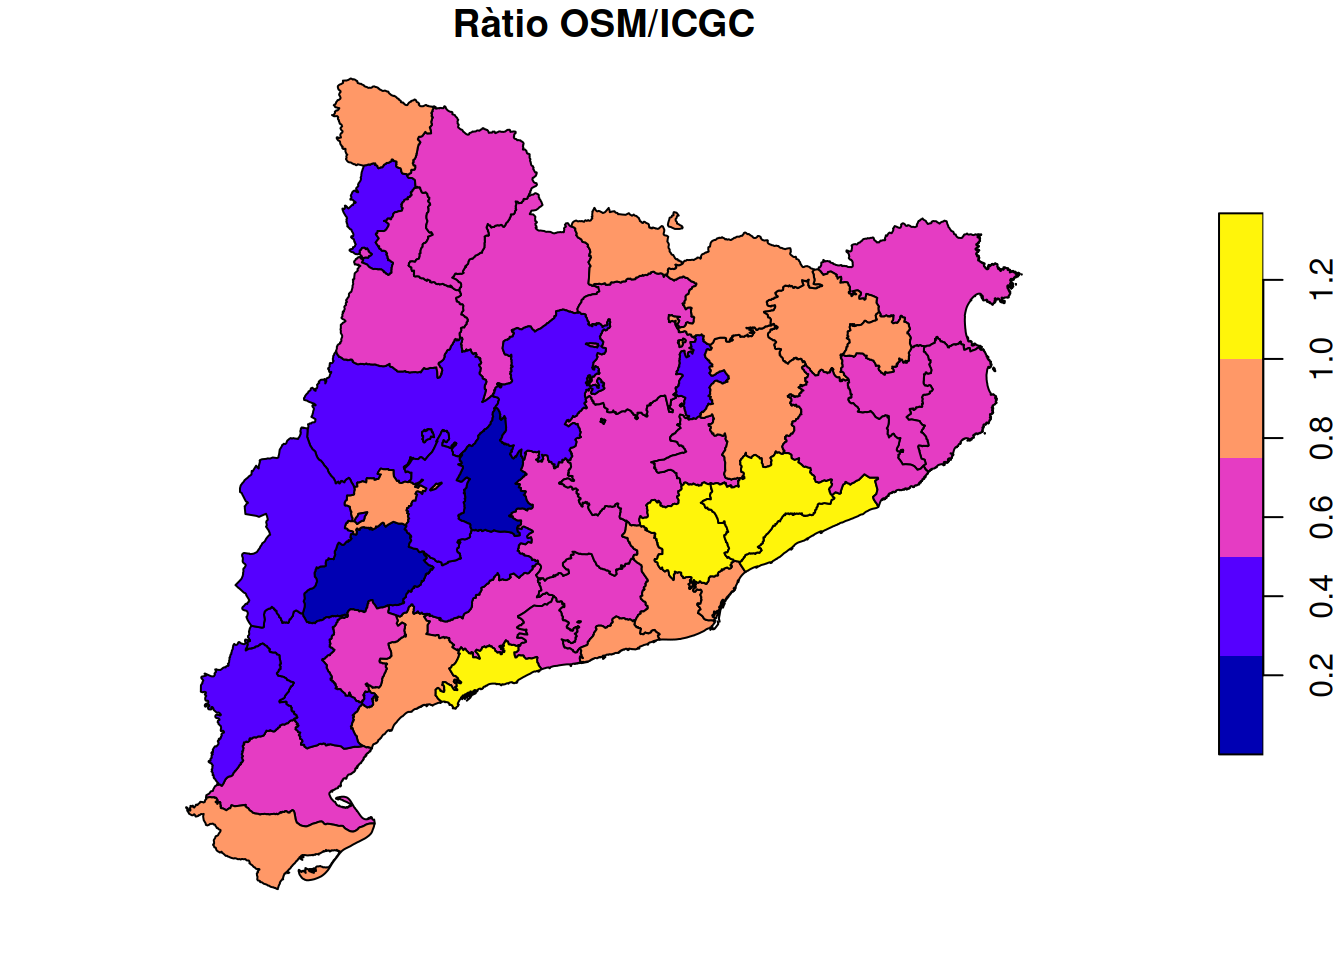
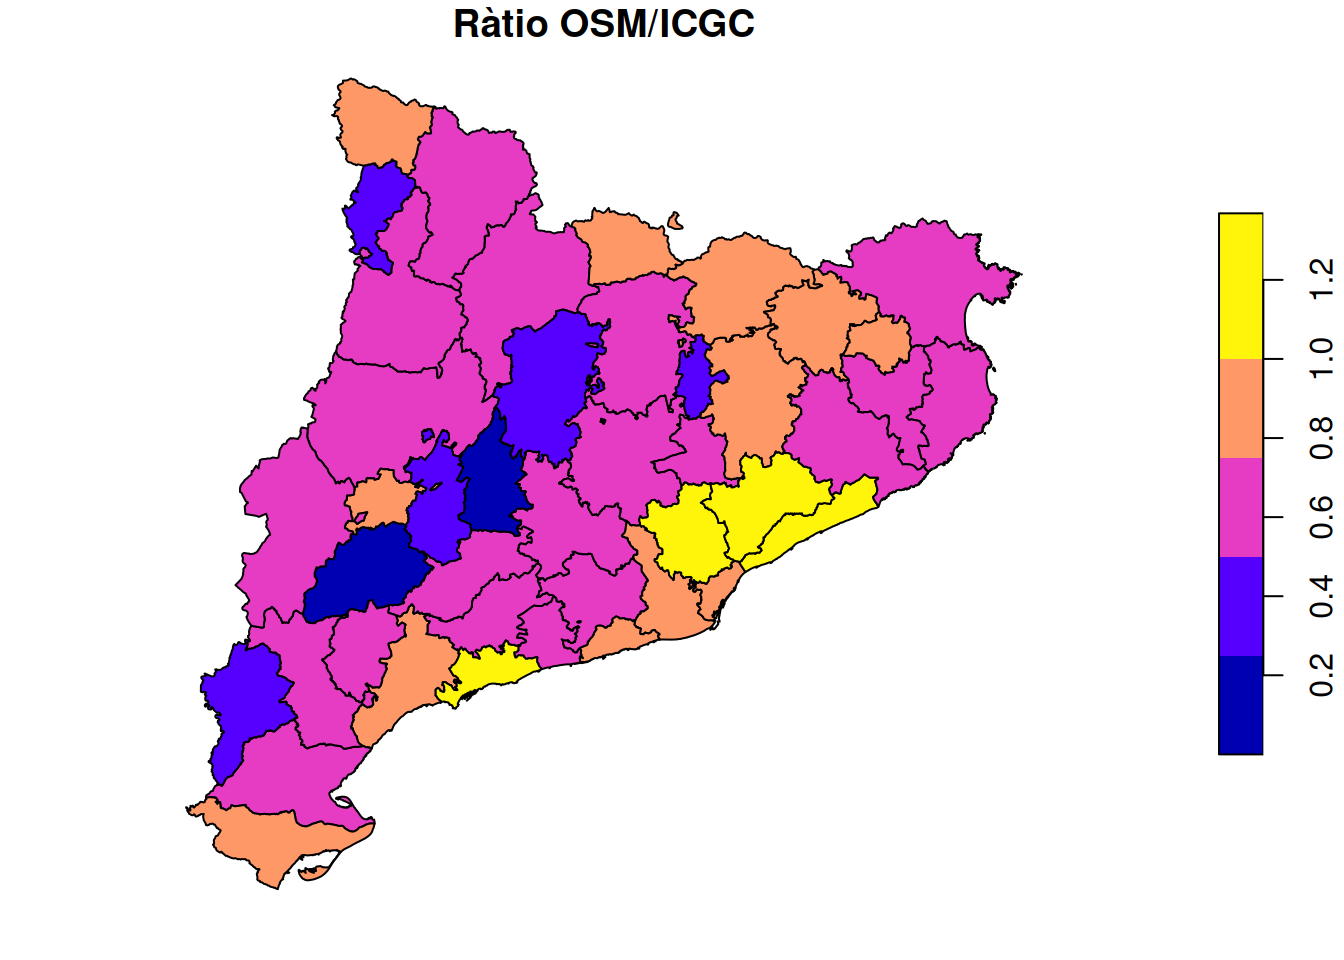
Built site for gh-pages

Changed region(s): [[0.1562, 0.3438, 0.375, 0.7812], [0.2812, 0.5312, 0.4062, 0.6562]]

diff --git a/web/dashboard.html b/web/dashboard.html
@@ -137,19 +137,19 @@ ul.task-list li input[type="checkbox"] {
 
     <script>
       // Create table-specific functions using external factory
-      const tableFns_3jk9xg8v44zjgpc21swb = TinyTable.createTableFunctions("tinytable_3jk9xg8v44zjgpc21swb");
+      const tableFns_lw5snca13yq2cwbodf0a = TinyTable.createTableFunctions("tinytable_lw5snca13yq2cwbodf0a");
       // tinytable span after
       window.addEventListener('load', function () {
           var cellsToStyle = [
             // tinytable style arrays after
-          { positions: [ { i: '43', j: 1 }, { i: '43', j: 2 }, { i: '43', j: 3 }, { i: '43', j: 4 } ], css_id: 'tinytable_css_4vri7pilqbif4vnhqeb9',}, 
-          { positions: [ { i: '0', j: 1 }, { i: '0', j: 2 }, { i: '0', j: 3 }, { i: '0', j: 4 } ], css_id: 'tinytable_css_yaah7r7l243xy7fl2izv',}, 
+          { positions: [ { i: '43', j: 1 }, { i: '43', j: 2 }, { i: '43', j: 3 }, { i: '43', j: 4 } ], css_id: 'tinytable_css_9sr2eter7ybkwoxm6blo',}, 
+          { positions: [ { i: '0', j: 1 }, { i: '0', j: 2 }, { i: '0', j: 3 }, { i: '0', j: 4 } ], css_id: 'tinytable_css_adxktq95se8do18sxxb8',}, 
           ];
 
           // Loop over the arrays to style the cells
           cellsToStyle.forEach(function (group) {
               group.positions.forEach(function (cell) {
-                  tableFns_3jk9xg8v44zjgpc21swb.styleCell(cell.i, cell.j, group.css_id);
+                  tableFns_lw5snca13yq2cwbodf0a.styleCell(cell.i, cell.j, group.css_id);
               });
           });
       });
@@ -158,11 +158,11 @@ ul.task-list li input[type="checkbox"] {
     <link rel="stylesheet" href="https://cdn.jsdelivr.net/gh/vincentarelbundock/tinytable@main/inst/tinytable.css">
     <style>
     /* tinytable css entries after */
-    #tinytable_3jk9xg8v44zjgpc21swb td.tinytable_css_4vri7pilqbif4vnhqeb9, #tinytable_3jk9xg8v44zjgpc21swb th.tinytable_css_4vri7pilqbif4vnhqeb9 {  position: relative; --border-bottom: 1; --border-left: 0; --border-right: 0; --border-top: 0; --line-color-bottom: black; --line-color-left: black; --line-color-right: black; --line-color-top: black; --line-width-bottom: 0.1em; --line-width-left: 0.1em; --line-width-right: 0.1em; --line-width-top: 0.1em; --trim-bottom-left: 0%; --trim-bottom-right: 0%; --trim-left-bottom: 0%; --trim-left-top: 0%; --trim-right-bottom: 0%; --trim-right-top: 0%; --trim-top-left: 0%; --trim-top-right: 0%;  }
-    #tinytable_3jk9xg8v44zjgpc21swb td.tinytable_css_yaah7r7l243xy7fl2izv, #tinytable_3jk9xg8v44zjgpc21swb th.tinytable_css_yaah7r7l243xy7fl2izv {  position: relative; --border-bottom: 1; --border-left: 0; --border-right: 0; --border-top: 1; --line-color-bottom: black; --line-color-left: black; --line-color-right: black; --line-color-top: black; --line-width-bottom: 0.05em; --line-width-left: 0.1em; --line-width-right: 0.1em; --line-width-top: 0.1em; --trim-bottom-left: 0%; --trim-bottom-right: 0%; --trim-left-bottom: 0%; --trim-left-top: 0%; --trim-right-bottom: 0%; --trim-right-top: 0%; --trim-top-left: 0%; --trim-top-right: 0%;  }
+    #tinytable_lw5snca13yq2cwbodf0a td.tinytable_css_9sr2eter7ybkwoxm6blo, #tinytable_lw5snca13yq2cwbodf0a th.tinytable_css_9sr2eter7ybkwoxm6blo {  position: relative; --border-bottom: 1; --border-left: 0; --border-right: 0; --border-top: 0; --line-color-bottom: var(--tt-line-color); --line-color-left: var(--tt-line-color); --line-color-right: var(--tt-line-color); --line-color-top: var(--tt-line-color); --line-width-bottom: 0.1em; --line-width-left: 0.1em; --line-width-right: 0.1em; --line-width-top: 0.1em; --trim-bottom-left: 0%; --trim-bottom-right: 0%; --trim-left-bottom: 0%; --trim-left-top: 0%; --trim-right-bottom: 0%; --trim-right-top: 0%; --trim-top-left: 0%; --trim-top-right: 0%;  }
+    #tinytable_lw5snca13yq2cwbodf0a td.tinytable_css_adxktq95se8do18sxxb8, #tinytable_lw5snca13yq2cwbodf0a th.tinytable_css_adxktq95se8do18sxxb8 {  position: relative; --border-bottom: 1; --border-left: 0; --border-right: 0; --border-top: 1; --line-color-bottom: var(--tt-line-color); --line-color-left: var(--tt-line-color); --line-color-right: var(--tt-line-color); --line-color-top: var(--tt-line-color); --line-width-bottom: 0.05em; --line-width-left: 0.1em; --line-width-right: 0.1em; --line-width-top: 0.1em; --trim-bottom-left: 0%; --trim-bottom-right: 0%; --trim-left-bottom: 0%; --trim-left-top: 0%; --trim-right-bottom: 0%; --trim-right-top: 0%; --trim-top-left: 0%; --trim-top-right: 0%;  }
     </style>
     <div class="container">
-      <table class="tinytable" id="tinytable_3jk9xg8v44zjgpc21swb" style="width: auto; margin-left: auto; margin-right: auto;" data-quarto-disable-processing="true">
+      <table class="tinytable" id="tinytable_lw5snca13yq2cwbodf0a" style="width: auto; margin-left: auto; margin-right: auto;" data-quarto-disable-processing="true">
         
         <thead>
               <tr>
@@ -176,9 +176,9 @@ ul.task-list li input[type="checkbox"] {
         <tbody>
                 <tr>
                   <td data-row="1" data-col="1">Alt Camp</td>
-                  <td data-row="1" data-col="2">628,35</td>
+                  <td data-row="1" data-col="2">712,02</td>
                   <td data-row="1" data-col="3">1.142,06</td>
-                  <td data-row="1" data-col="4">55,02%</td>
+                  <td data-row="1" data-col="4">62,35%</td>
                 </tr>
                 <tr>
                   <td data-row="2" data-col="1">Alt Empordà</td>
@@ -188,15 +188,15 @@ ul.task-list li input[type="checkbox"] {
                 </tr>
                 <tr>
                   <td data-row="3" data-col="1">Alt Penedès</td>
-                  <td data-row="3" data-col="2">847,01</td>
+                  <td data-row="3" data-col="2">854,74</td>
                   <td data-row="3" data-col="3">1.369,05</td>
-                  <td data-row="3" data-col="4">61,87%</td>
+                  <td data-row="3" data-col="4">62,43%</td>
                 </tr>
                 <tr>
                   <td data-row="4" data-col="1">Alt Urgell</td>
-                  <td data-row="4" data-col="2">2.054,14</td>
+                  <td data-row="4" data-col="2">2.089,06</td>
                   <td data-row="4" data-col="3">3.875,76</td>
-                  <td data-row="4" data-col="4">53,00%</td>
+                  <td data-row="4" data-col="4">53,90%</td>
                 </tr>
                 <tr>
                   <td data-row="5" data-col="1">Alta Ribagorça</td>
@@ -206,45 +206,45 @@ ul.task-list li input[type="checkbox"] {
                 </tr>
                 <tr>
                   <td data-row="6" data-col="1">Anoia</td>
-                  <td data-row="6" data-col="2">1.049,44</td>
+                  <td data-row="6" data-col="2">1.055,37</td>
                   <td data-row="6" data-col="3">2.075,36</td>
-                  <td data-row="6" data-col="4">50,57%</td>
+                  <td data-row="6" data-col="4">50,85%</td>
                 </tr>
                 <tr>
                   <td data-row="7" data-col="1">Bages</td>
-                  <td data-row="7" data-col="2">1.825,44</td>
+                  <td data-row="7" data-col="2">1.826,18</td>
                   <td data-row="7" data-col="3">2.693,75</td>
-                  <td data-row="7" data-col="4">67,77%</td>
+                  <td data-row="7" data-col="4">67,79%</td>
                 </tr>
                 <tr>
                   <td data-row="8" data-col="1">Baix Camp</td>
-                  <td data-row="8" data-col="2">1.638,86</td>
+                  <td data-row="8" data-col="2">1.638,20</td>
                   <td data-row="8" data-col="3">1.647,60</td>
-                  <td data-row="8" data-col="4">99,47%</td>
+                  <td data-row="8" data-col="4">99,43%</td>
                 </tr>
                 <tr>
                   <td data-row="9" data-col="1">Baix Ebre</td>
-                  <td data-row="9" data-col="2">1.328,58</td>
+                  <td data-row="9" data-col="2">1.546,55</td>
                   <td data-row="9" data-col="3">2.261,28</td>
-                  <td data-row="9" data-col="4">58,75%</td>
+                  <td data-row="9" data-col="4">68,39%</td>
                 </tr>
                 <tr>
                   <td data-row="10" data-col="1">Baix Empordà</td>
-                  <td data-row="10" data-col="2">826,88</td>
+                  <td data-row="10" data-col="2">827,28</td>
                   <td data-row="10" data-col="3">1.141,72</td>
-                  <td data-row="10" data-col="4">72,42%</td>
+                  <td data-row="10" data-col="4">72,46%</td>
                 </tr>
                 <tr>
                   <td data-row="11" data-col="1">Baix Llobregat</td>
-                  <td data-row="11" data-col="2">990,85</td>
+                  <td data-row="11" data-col="2">990,97</td>
                   <td data-row="11" data-col="3">1.013,61</td>
-                  <td data-row="11" data-col="4">97,75%</td>
+                  <td data-row="11" data-col="4">97,77%</td>
                 </tr>
                 <tr>
                   <td data-row="12" data-col="1">Baix Penedès</td>
-                  <td data-row="12" data-col="2">424,97</td>
+                  <td data-row="12" data-col="2">444,25</td>
                   <td data-row="12" data-col="3">690,56</td>
-                  <td data-row="12" data-col="4">61,54%</td>
+                  <td data-row="12" data-col="4">64,33%</td>
                 </tr>
                 <tr>
                   <td data-row="13" data-col="1">Barcelonès</td>
@@ -254,9 +254,9 @@ ul.task-list li input[type="checkbox"] {
                 </tr>
                 <tr>
                   <td data-row="14" data-col="1">Berguedà</td>
-                  <td data-row="14" data-col="2">1.525,61</td>
+                  <td data-row="14" data-col="2">1.533,50</td>
                   <td data-row="14" data-col="3">2.877,05</td>
-                  <td data-row="14" data-col="4">53,03%</td>
+                  <td data-row="14" data-col="4">53,30%</td>
                 </tr>
                 <tr>
                   <td data-row="15" data-col="1">Cerdanya</td>
@@ -266,9 +266,9 @@ ul.task-list li input[type="checkbox"] {
                 </tr>
                 <tr>
                   <td data-row="16" data-col="1">Conca de Barberà</td>
-                  <td data-row="16" data-col="2">706,39</td>
+                  <td data-row="16" data-col="2">757,10</td>
                   <td data-row="16" data-col="3">1.437,71</td>
-                  <td data-row="16" data-col="4">49,13%</td>
+                  <td data-row="16" data-col="4">52,66%</td>
                 </tr>
                 <tr>
                   <td data-row="17" data-col="1">Garraf</td>
@@ -278,27 +278,27 @@ ul.task-list li input[type="checkbox"] {
                 </tr>
                 <tr>
                   <td data-row="18" data-col="1">Garrigues</td>
-                  <td data-row="18" data-col="2">282,36</td>
+                  <td data-row="18" data-col="2">325,06</td>
                   <td data-row="18" data-col="3">1.332,94</td>
-                  <td data-row="18" data-col="4">21,18%</td>
+                  <td data-row="18" data-col="4">24,39%</td>
                 </tr>
                 <tr>
                   <td data-row="19" data-col="1">Garrotxa</td>
-                  <td data-row="19" data-col="2">1.587,74</td>
+                  <td data-row="19" data-col="2">1.592,43</td>
                   <td data-row="19" data-col="3">1.899,53</td>
-                  <td data-row="19" data-col="4">83,59%</td>
+                  <td data-row="19" data-col="4">83,83%</td>
                 </tr>
                 <tr>
                   <td data-row="20" data-col="1">Gironès</td>
-                  <td data-row="20" data-col="2">763,09</td>
+                  <td data-row="20" data-col="2">779,78</td>
                   <td data-row="20" data-col="3">1.150,84</td>
-                  <td data-row="20" data-col="4">66,31%</td>
+                  <td data-row="20" data-col="4">67,76%</td>
                 </tr>
                 <tr>
                   <td data-row="21" data-col="1">Lluçanès</td>
-                  <td data-row="21" data-col="2">220,98</td>
+                  <td data-row="21" data-col="2">230,86</td>
                   <td data-row="21" data-col="3">571,35</td>
-                  <td data-row="21" data-col="4">38,68%</td>
+                  <td data-row="21" data-col="4">40,41%</td>
                 </tr>
                 <tr>
                   <td data-row="22" data-col="1">Maresme</td>
@@ -314,39 +314,39 @@ ul.task-list li input[type="checkbox"] {
                 </tr>
                 <tr>
                   <td data-row="24" data-col="1">Montsià</td>
-                  <td data-row="24" data-col="2">1.057,20</td>
+                  <td data-row="24" data-col="2">1.058,00</td>
                   <td data-row="24" data-col="3">1.110,86</td>
-                  <td data-row="24" data-col="4">95,17%</td>
+                  <td data-row="24" data-col="4">95,24%</td>
                 </tr>
                 <tr>
                   <td data-row="25" data-col="1">Noguera</td>
-                  <td data-row="25" data-col="2">1.585,07</td>
+                  <td data-row="25" data-col="2">1.868,36</td>
                   <td data-row="25" data-col="3">3.271,01</td>
-                  <td data-row="25" data-col="4">48,46%</td>
+                  <td data-row="25" data-col="4">57,12%</td>
                 </tr>
                 <tr>
                   <td data-row="26" data-col="1">Osona</td>
-                  <td data-row="26" data-col="2">2.096,83</td>
+                  <td data-row="26" data-col="2">2.100,65</td>
                   <td data-row="26" data-col="3">2.228,27</td>
-                  <td data-row="26" data-col="4">94,10%</td>
+                  <td data-row="26" data-col="4">94,27%</td>
                 </tr>
                 <tr>
                   <td data-row="27" data-col="1">Pallars Jussà</td>
-                  <td data-row="27" data-col="2">2.036,67</td>
+                  <td data-row="27" data-col="2">2.113,26</td>
                   <td data-row="27" data-col="3">3.477,89</td>
-                  <td data-row="27" data-col="4">58,56%</td>
+                  <td data-row="27" data-col="4">60,76%</td>
                 </tr>
                 <tr>
                   <td data-row="28" data-col="1">Pallars Sobirà</td>
-                  <td data-row="28" data-col="2">2.066,51</td>
+                  <td data-row="28" data-col="2">2.067,95</td>
                   <td data-row="28" data-col="3">3.450,59</td>
-                  <td data-row="28" data-col="4">59,89%</td>
+                  <td data-row="28" data-col="4">59,93%</td>
                 </tr>
                 <tr>
                   <td data-row="29" data-col="1">Pla d'Urgell</td>
-                  <td data-row="29" data-col="2">157,79</td>
+                  <td data-row="29" data-col="2">159,42</td>
                   <td data-row="29" data-col="3">164,75</td>
-                  <td data-row="29" data-col="4">95,77%</td>
+                  <td data-row="29" data-col="4">96,76%</td>
                 </tr>
                 <tr>
                   <td data-row="30" data-col="1">Pla de l'Estany</td>
@@ -356,21 +356,21 @@ ul.task-list li input[type="checkbox"] {
                 </tr>
                 <tr>
                   <td data-row="31" data-col="1">Priorat</td>
-                  <td data-row="31" data-col="2">905,67</td>
+                  <td data-row="31" data-col="2">916,82</td>
                   <td data-row="31" data-col="3">1.339,08</td>
-                  <td data-row="31" data-col="4">67,63%</td>
+                  <td data-row="31" data-col="4">68,47%</td>
                 </tr>
                 <tr>
                   <td data-row="32" data-col="1">Ribera d'Ebre</td>
-                  <td data-row="32" data-col="2">1.087,11</td>
+                  <td data-row="32" data-col="2">1.237,16</td>
                   <td data-row="32" data-col="3">2.180,47</td>
-                  <td data-row="32" data-col="4">49,86%</td>
+                  <td data-row="32" data-col="4">56,74%</td>
                 </tr>
                 <tr>
                   <td data-row="33" data-col="1">Ripollès</td>
-                  <td data-row="33" data-col="2">1.831,06</td>
+                  <td data-row="33" data-col="2">1.831,19</td>
                   <td data-row="33" data-col="3">2.221,60</td>
-                  <td data-row="33" data-col="4">82,42%</td>
+                  <td data-row="33" data-col="4">82,43%</td>
                 </tr>
                 <tr>
                   <td data-row="34" data-col="1">Segarra</td>
@@ -380,21 +380,21 @@ ul.task-list li input[type="checkbox"] {
                 </tr>
                 <tr>
                   <td data-row="35" data-col="1">Segrià</td>
-                  <td data-row="35" data-col="2">827,40</td>
+                  <td data-row="35" data-col="2">857,78</td>
                   <td data-row="35" data-col="3">1.712,23</td>
-                  <td data-row="35" data-col="4">48,32%</td>
+                  <td data-row="35" data-col="4">50,10%</td>
                 </tr>
                 <tr>
                   <td data-row="36" data-col="1">Selva</td>
-                  <td data-row="36" data-col="2">1.670,21</td>
+                  <td data-row="36" data-col="2">1.673,72</td>
                   <td data-row="36" data-col="3">2.510,41</td>
-                  <td data-row="36" data-col="4">66,53%</td>
+                  <td data-row="36" data-col="4">66,67%</td>
                 </tr>
                 <tr>
                   <td data-row="37" data-col="1">Solsonès</td>
-                  <td data-row="37" data-col="2">1.140,74</td>
+                  <td data-row="37" data-col="2">1.146,83</td>
                   <td data-row="37" data-col="3">2.670,21</td>
-                  <td data-row="37" data-col="4">42,72%</td>
+                  <td data-row="37" data-col="4">42,95%</td>
                 </tr>
                 <tr>
                   <td data-row="38" data-col="1">Tarragonès</td>
@@ -404,15 +404,15 @@ ul.task-list li input[type="checkbox"] {
                 </tr>
                 <tr>
                   <td data-row="39" data-col="1">Terra Alta</td>
-                  <td data-row="39" data-col="2">670,35</td>
+                  <td data-row="39" data-col="2">760,35</td>
                   <td data-row="39" data-col="3">1.844,55</td>
-                  <td data-row="39" data-col="4">36,34%</td>
+                  <td data-row="39" data-col="4">41,22%</td>
                 </tr>
                 <tr>
                   <td data-row="40" data-col="1">Urgell</td>
-                  <td data-row="40" data-col="2">322,60</td>
+                  <td data-row="40" data-col="2">339,08</td>
                   <td data-row="40" data-col="3">699,34</td>
-                  <td data-row="40" data-col="4">46,13%</td>
+                  <td data-row="40" data-col="4">48,49%</td>
                 </tr>
                 <tr>
                   <td data-row="41" data-col="1">Val d'Aran</td>
@@ -441,7 +441,7 @@ ul.task-list li input[type="checkbox"] {
 </div><div class="column" style="width:5%;">
 <!-- empty column to create gap -->
 </div><div class="column" style="width:20%;">
-<p>Longitud cursos d’aigua ICGC: 70.302 km Longitud cursos d’aigua OSM: 45.942 km Percentatge de cursos d’aigua a OSM: 65.35%</p>
+<p>Longitud cursos d’aigua ICGC: 70.302 km Longitud cursos d’aigua OSM: 47.120 km Percentatge de cursos d’aigua a OSM: 67.02%</p>
 </div>
 </div>
 </section>
